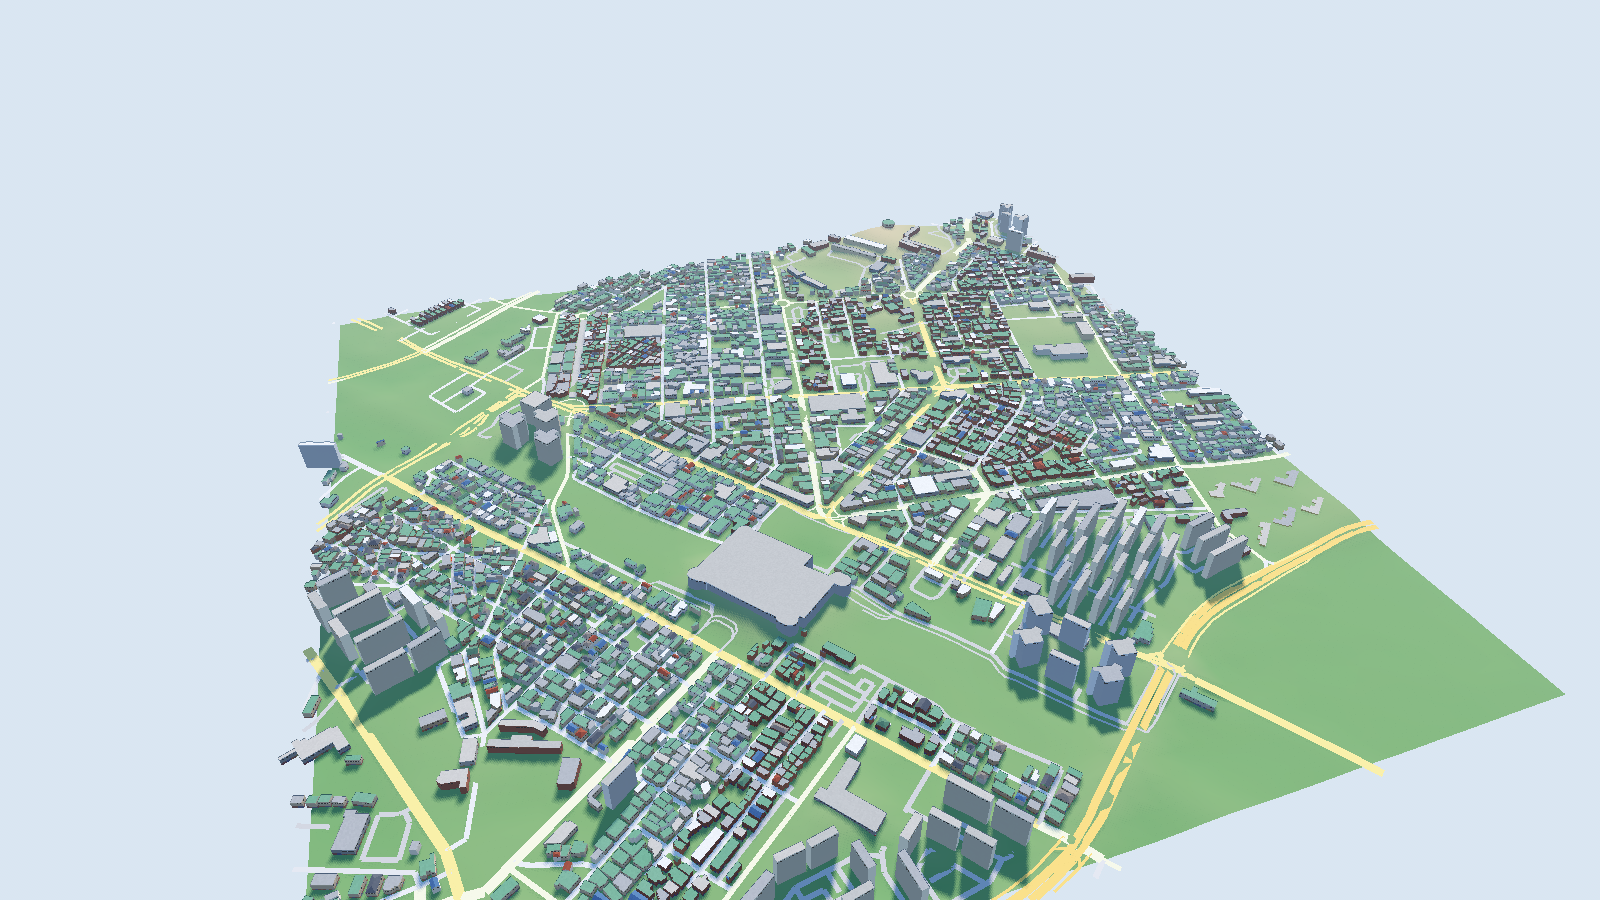
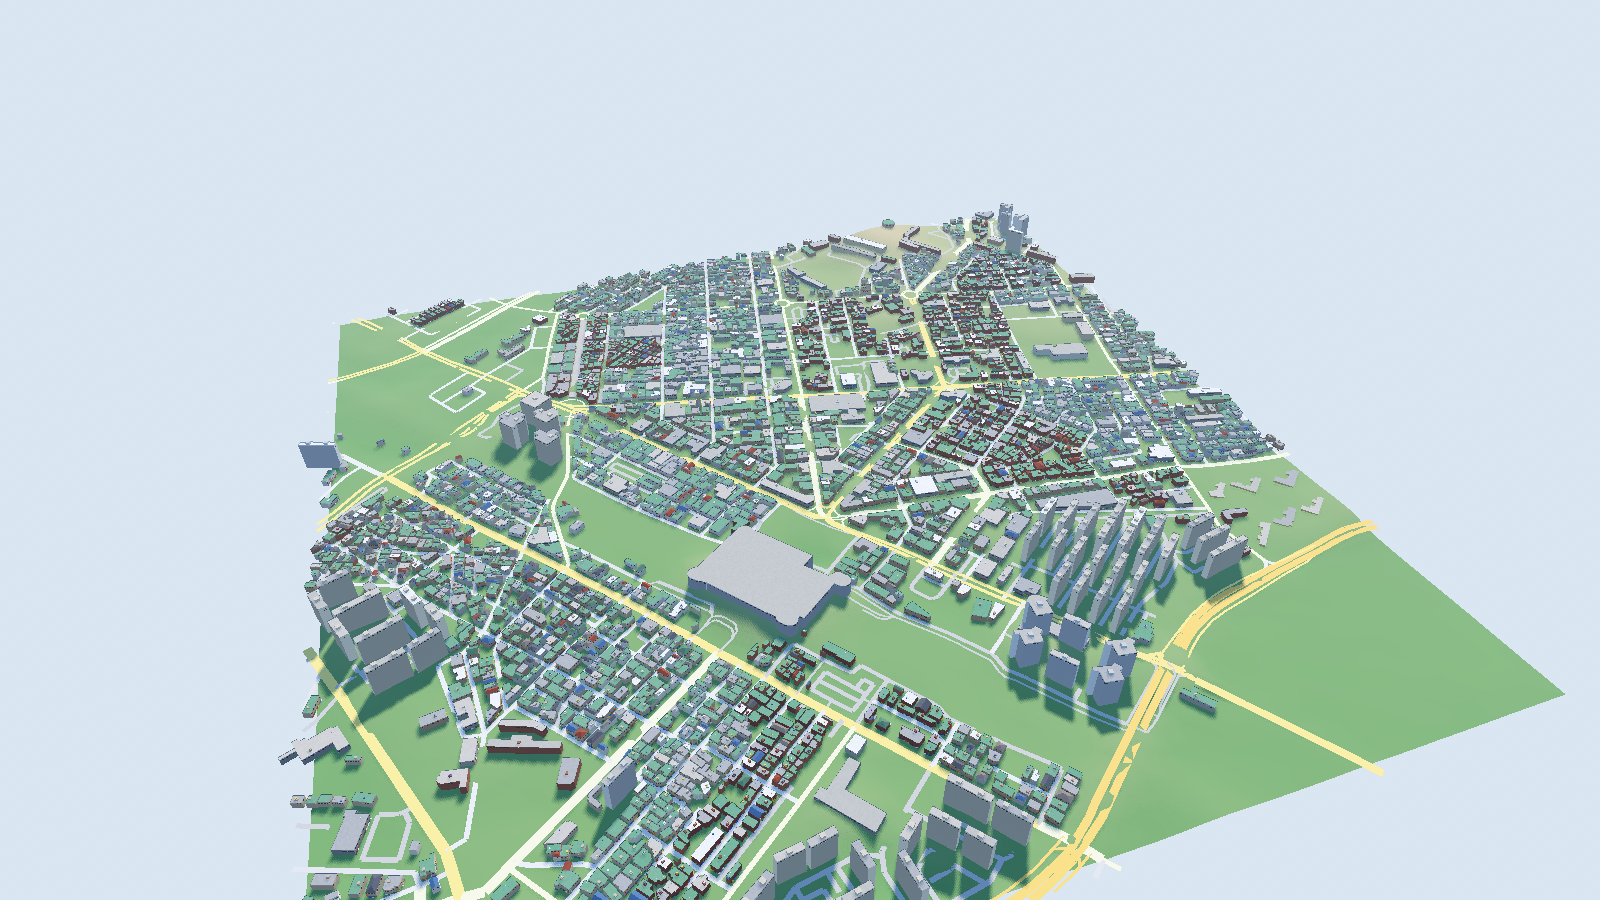
클라이언트: 건물 외형 2단계 — 옥탑·동 번호·차양·돌출 간판·물탱크 (#59) (#60)
- 도로에 면한 벽 판정(도로 선분 30 m 격자): 1층 상점·간판 띠는 그 벽에만
- 상가: 칸마다 차양, 3층 이상 상가주택 돌출 간판(셰이더 SIGN 분류, 밤 발광)
- 아파트: 승강기·계단실 옥탑, 단지별 측벽 동 번호(7획 숫자 셰이더, CUSTOM0)
- 저층 평지붕: 옥탑방·물탱크·실외기 (바닥 다각형 안에 들어갈 때만)
- 근거·가정은 research-log.md#building-look

diff --git a/docs/design/research-log.md b/docs/design/research-log.md
@@ -207,3 +207,10 @@
 - 경사지붕은 꼭짓점 4개의 볼록한 작은 건물(260 m² 이하, 12 m 이하)에만 얹습니다: 단독주택 60%, 상가주택 20%, 공공 30% (**가정**), 박공·모임지붕 반반, 경사 28°. 공장·창고 사각형은 낮은 경사(10°) 금속 지붕.
 - 색은 건물마다 OSM id로 후보 중 하나를 골라 실행마다 같습니다. 색 후보(붉은 벽돌, 베이지 타일, 흰 도장 등)는 눈으로 고른 값입니다.
 - Google 3D 타일·항공사진은 라이선스 때문에 쓰지 않습니다. 다른 게임의 에셋도 쓰지 않습니다.
+- **2단계 세부 (#59)** — 모두 표시용 **가정**이며 실측·통계 근거는 아직 없습니다.
+  - 1층 상점 유리·간판 띠, 차양, 돌출 간판은 "도로에 면한 벽"에만 붙입니다: 벽 가운데에서 바깥쪽으로 도로 가장자리(차로 수 × 1.5 m)까지 12 m 안에 도로 중심선이 있는 벽. 차양은 칸의 절반쯤(높이 2.2 → 1.85 m, 1.1 m 돌출), 돌출 간판은 3층 이상 상가주택 벽의 55%에 하나(3.3 m부터 최대 6 m 높이).
+  - 아파트 측벽 동 번호: 무게중심이 80 m 안인 아파트를 한 단지로 묶고, 20 m 띠 기준 북→남, 같은 띠에서는 서→동 순으로 101, 102, … 를 붙입니다. 실제 동 번호가 아닙니다. 건물 데이터에 실제 동 이름이 생기면 그것을 씁니다.
+  - 아파트 옥상에는 긴 축을 따라 승강기·계단실 옥탑 1~3개(길이 40 m 미만 1개, 75 m 미만 2개, 그 이상 3개, 6 m × 최대 6 m × 3.6 m).
+  - 저층 평지붕: 옥탑방·계단실(단독 30%, 상가주택 55%, 상업 70%, 공공 50%), 물탱크(45%, 파랑·노랑·흰색, 옥탑이 있으면 그 위), 실외기(상업 2~5개, 상가주택 0~2개). 바닥 다각형 안(0.5 m 여유)에 들어갈 때만 놓습니다.
+  - 건물 데이터: 건축물대장 자료에 좌표가 없어 건물별 실제 층수·용도는 아직 붙지 않았습니다 (2단계 코어 작업). 붙으면 표시 분류를 그 값으로 바꿉니다.
+  - 비용: 건물 메시 꼭짓점 약 23만 → 55만 개, 헤드리스 로드 시간 약 0.4초 늘어남 (평택역 맵, 이 PC).

diff --git a/client/README.md b/client/README.md
@@ -43,7 +43,7 @@ godot --path client -- --demo frames/            # 출퇴근 장면을 돌리며
 | --- | --- | --- |
 | 지형 | `terrain.png` + manifest 고도 범위 | 셀 중심을 꼭짓점으로 하는 격자 메시, 높이에 따라 색 |
 | 도로 | 코어 도로 그래프 (`road_points`, 차선 수, 유형) | 차선 수 × 3 m 폭의 띠, 지형 위 0.6 m, 유형별 색 |
-| 건물 | 코어가 읽은 `buildings.geojson` | 바닥 다각형을 표시 높이만큼 올린 벽 + 지붕. 용도별 색, 셰이더로 그린 창문·1층 상점·간판, 평지붕 난간, 작은 사각형 건물의 박공·모임지붕 (`scripts/buildings.gd`, `shaders/building.gdshader`) |
+| 건물 | 코어가 읽은 `buildings.geojson` | 바닥 다각형을 표시 높이만큼 올린 벽 + 지붕. 용도별 색, 셰이더로 그린 창문·1층 상점·간판, 평지붕 난간, 작은 사각형 건물의 박공·모임지붕, 아파트 옥탑·측벽 동 번호, 도로 쪽 차양·돌출 간판, 옥상 물탱크·옥탑방·실외기 (`scripts/buildings.gd`, `shaders/building.gdshader`) |
 
 - 좌표: 맵 패키지 로컬 미터 (x 동쪽, y 북쪽) → Godot `(x, 높이, -y)`.
 - 건물 용도는 OSM 값(대부분 `yes`)과 바닥 면적으로 나눈 **표시용 가정**입니다 ([research-log.md](../docs/design/research-log.md#building-look)). 창문은 텍스처 파일 없이 셰이더로 그립니다.
